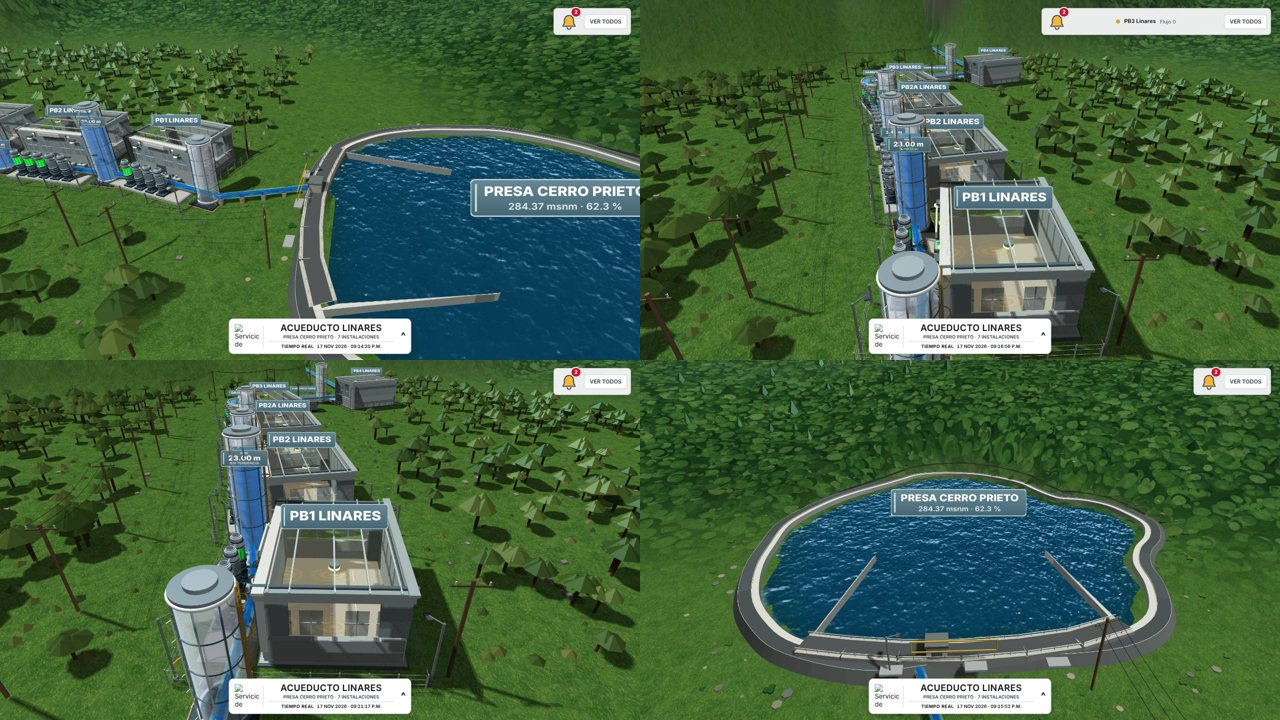
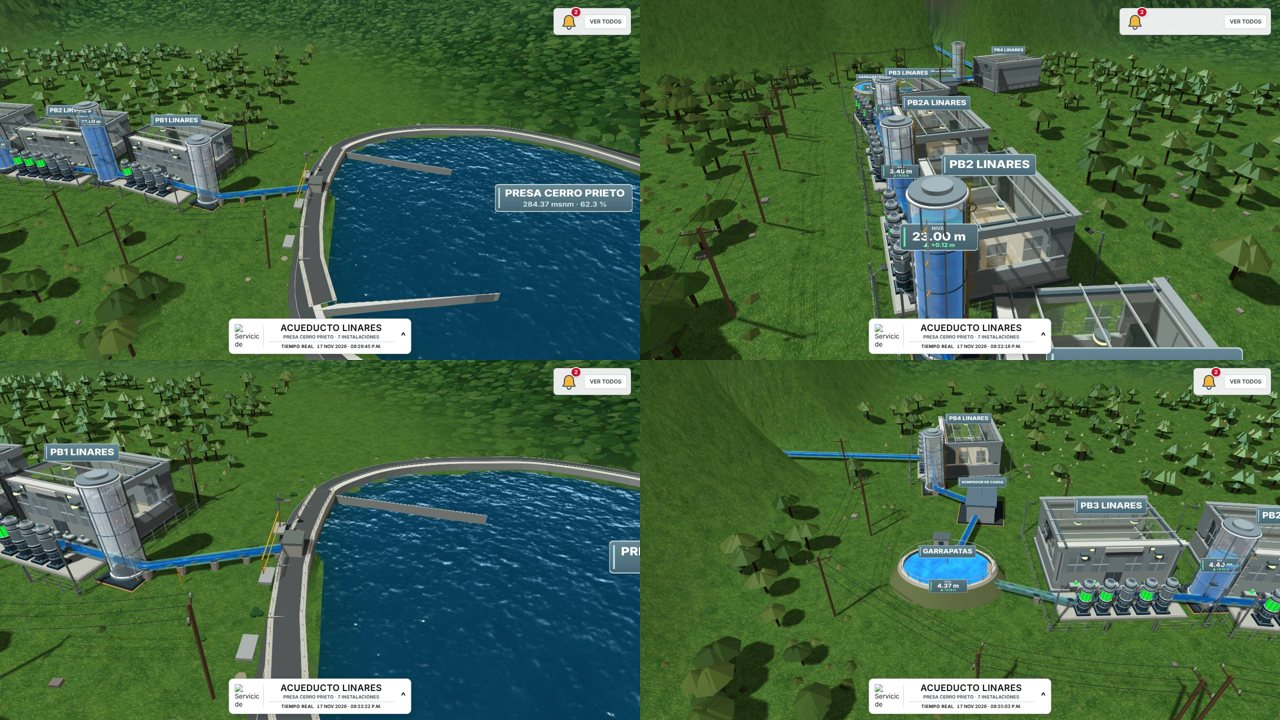
Linares 3D: giro alrededor solo por el frente de las casetas
Claude-Session: https://claude.ai/code/session_011FB5um3d1YqJKD5tDG6dWP

diff --git a/propuesta-3d/codigo_pro/js/linares_3d.js b/propuesta-3d/codigo_pro/js/linares_3d.js
@@ -2837,7 +2837,7 @@ void main(){
   function mvStartAround() {
     mvSetFree(false);
     if (state.auto === 'presentation') endPresentation();
-    mvLeaveOverview(); mvOverviewFit = false; mvFrameDistance = 0; mvAround.elapsed = 0; mvAround.zoom = 1; mvAround.pitch = 1.02; mvAround.yaw0 = state.yaw; { const t = state.target, P = MV_AROUND_PATH, total = MV_AROUND_LEN[MV_AROUND_LEN.length - 1]; let best = 0, bd = 1e9; for (let k = 0; k <= 40; k++) { const q = mvAroundTargetAt(k / 40 * total); const dd = Math.hypot(q[0] - t[0], q[2] - t[2]); if (dd < bd) { bd = dd; best = k / 40; } } mvAround.phase = Math.acos(Math.max(-1, Math.min(1, 1 - 2 * best))); }
+    mvLeaveOverview(); mvOverviewFit = false; mvFrameDistance = 0; mvAround.elapsed = 0; mvAround.zoom = 1; mvAround.pitch = 1.02; { const y = Math.atan2(Math.sin(state.yaw), Math.cos(state.yaw)); mvAround.yaw0 = Math.asin(Math.max(-1, Math.min(1, (y - 1.50) / 1.0))); } { const t = state.target, P = MV_AROUND_PATH, total = MV_AROUND_LEN[MV_AROUND_LEN.length - 1]; let best = 0, bd = 1e9; for (let k = 0; k <= 40; k++) { const q = mvAroundTargetAt(k / 40 * total); const dd = Math.hypot(q[0] - t[0], q[2] - t[2]); if (dd < bd) { bd = dd; best = k / 40; } } mvAround.phase = Math.acos(Math.max(-1, Math.min(1, 1 - 2 * best))); }
     state.auto = 'around'; syncButtons(); mvSyncNav();
   }
   function mvTickNav(dt) {
@@ -2865,7 +2865,7 @@ void main(){
       mvAround.elapsed += dt * mvTour.rate;
       const smooth = 1 - Math.exp(-dt * 1.6);
       const e = mvAround.elapsed, ramp = mvEase(e / 4);
-      let dy = (mvAround.yaw0 + e * .085) - state.yaw; dy = Math.atan2(Math.sin(dy), Math.cos(dy));
+      let dy = (1.50 + 1.0 * Math.sin(e * .07 + mvAround.yaw0)) - state.yaw; dy = Math.atan2(Math.sin(dy), Math.cos(dy));
       state.yaw += dy * smooth;
       state.pitch += ((1.02 + .09 * Math.sin(e * .052)) - state.pitch) * smooth;
       const goal = mvAroundTarget(e);

diff --git a/propuesta-3d/entrega_tres_sistemas/js/linares_3d.js b/propuesta-3d/entrega_tres_sistemas/js/linares_3d.js
@@ -3399,7 +3399,10 @@
     mvAround.elapsed = 0;
     mvAround.zoom = 1;
     mvAround.pitch = 1.02;
-    mvAround.yaw0 = state.yaw;
+    {
+      const y = Math.atan2(Math.sin(state.yaw), Math.cos(state.yaw));
+      mvAround.yaw0 = Math.asin(Math.max(-1, Math.min(1, (y - 1.5) / 1)));
+    }
     {
       const t = state.target, P = MV_AROUND_PATH, total = MV_AROUND_LEN[MV_AROUND_LEN.length - 1];
       let best = 0, bd = 1e9;
@@ -3442,7 +3445,7 @@
       mvAround.elapsed += dt * mvTour.rate;
       const smooth = 1 - Math.exp(-dt * 1.6);
       const e = mvAround.elapsed, ramp = mvEase(e / 4);
-      let dy = mvAround.yaw0 + e * .085 - state.yaw;
+      let dy = 1.5 + 1 * Math.sin(e * .07 + mvAround.yaw0) - state.yaw;
       dy = Math.atan2(Math.sin(dy), Math.cos(dy));
       state.yaw += dy * smooth;
       state.pitch += (1.02 + .09 * Math.sin(e * .052) - state.pitch) * smooth;
